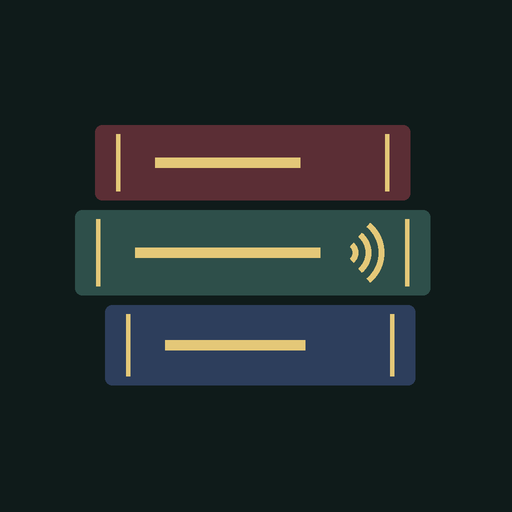
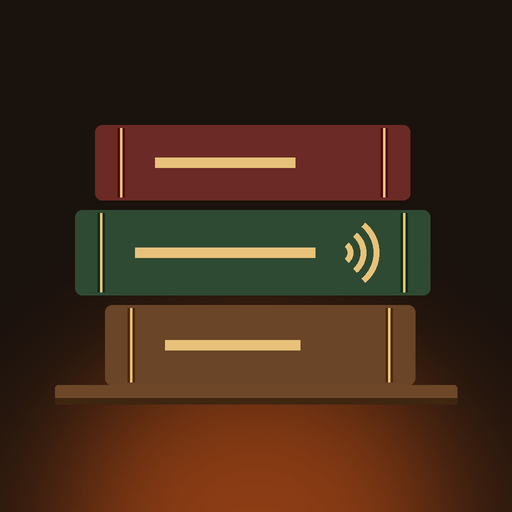
Add files via upload

diff --git a/index.html b/index.html
@@ -4,8 +4,8 @@
 <meta charset="utf-8">
 <meta name="viewport" content="width=device-width, initial-scale=1, viewport-fit=cover">
 <title>Narrate</title>
-<meta name="theme-color" content="#0f1b1a" media="(prefers-color-scheme: dark)">
-<meta name="theme-color" content="#eceee9" media="(prefers-color-scheme: light)">
+<meta name="theme-color" content="#1a120d" media="(prefers-color-scheme: dark)">
+<meta name="theme-color" content="#f2e7d5" media="(prefers-color-scheme: light)">
 <link rel="manifest" href="manifest.webmanifest">
 <link rel="apple-touch-icon" href="icons/apple-touch-icon.png">
 <link rel="icon" type="image/png" href="icons/icon-192.png">
@@ -14,35 +14,49 @@
     --serif: "Iowan Old Style", "Palatino Linotype", Palatino, "Book Antiqua", Georgia, serif;
     --sans: system-ui, -apple-system, "Segoe UI", Roboto, "Helvetica Neue", sans-serif;
 
-    --bg: #eceee9;
-    --surface: #f7f8f4;
-    --surface-2: #e2e6e0;
-    --ink: #17201f;
-    --muted: #5b6662;
-    --line: #c9d0ca;
-    --gilt: #85661b;
-    --gilt-on-cloth: #e4c878;
-    --danger: #9c2f2f;
-    --focus: #2c6a64;
+    --bg: #f2e7d5;
+    --surface: #fbf4e8;
+    --surface-2: #ead9bf;
+    --ink: #2b1c12;
+    --muted: #7a6450;
+    --line: #dcc6a6;
+    --gilt: #9a6a1f;
+    --gilt-on-cloth: #e8c27a;
+    --ember: #b8521f;
+    --ember-ink: #fff6ea;
+    --glow: rgba(214, 112, 40, .20);
+    --glow-hot: rgba(240, 150, 60, .16);
+    --wood: #8a5a33;
+    --wood-dark: #5e3a1f;
+    --danger: #a33b2a;
+    --focus: #9a5a1f;
     color-scheme: light;
   }
   @media (prefers-color-scheme: dark) {
     :root:not([data-theme="light"]) {
-      --bg: #0f1b1a;
-      --surface: #162524;
-      --surface-2: #1d2f2d;
-      --ink: #e5ebe6;
-      --muted: #93a29d;
-      --line: #2a3c3a;
-      --gilt: #d3b263;
-      --danger: #e07a6e;
-      --focus: #8ccfc7;
+      --bg: #1a120d;
+      --surface: #251a13;
+      --surface-2: #2f2118;
+      --ink: #f1e4cc;
+      --muted: #b19a80;
+      --line: #3d2c20;
+      --gilt: #e9b45f;
+      --ember: #e0793a;
+      --ember-ink: #1f120a;
+      --glow: rgba(232, 112, 40, .40);
+      --glow-hot: rgba(255, 160, 60, .30);
+      --wood: #5c3b22;
+      --wood-dark: #36220f;
+      --danger: #ef8a72;
+      --focus: #f0b46a;
       color-scheme: dark;
     }
   }
   :root[data-theme="dark"] {
-    --bg: #0f1b1a; --surface: #162524; --surface-2: #1d2f2d; --ink: #e5ebe6; --muted: #93a29d;
-    --line: #2a3c3a; --gilt: #d3b263; --danger: #e07a6e; --focus: #8ccfc7; color-scheme: dark;
+    --bg: #1a120d; --surface: #251a13; --surface-2: #2f2118; --ink: #f1e4cc; --muted: #b19a80;
+    --line: #3d2c20; --gilt: #e9b45f; --ember: #e0793a; --ember-ink: #1f120a; --glow: rgba(232, 112, 40, .40);
+    --glow-hot: rgba(255, 160, 60, .30); --wood: #5c3b22; --wood-dark: #36220f; --danger: #ef8a72; --focus: #f0b46a;
+    color-scheme: dark;
   }
 
   * { box-sizing: border-box; }
@@ -60,6 +74,35 @@
   :focus-visible { outline: 2px solid var(--focus); outline-offset: 2px; border-radius: 6px; }
   [hidden] { display: none !important; }
 
+  body::before, body::after {
+    content: ""; position: fixed; left: -10%; right: -10%; bottom: -12vh; height: 70vh;
+    pointer-events: none; z-index: 0;
+  }
+  body::before {
+    background:
+      radial-gradient(ellipse 60% 60% at 50% 100%, var(--glow), transparent 70%),
+      radial-gradient(ellipse 95% 85% at 50% 100%, var(--glow), transparent 78%);
+    opacity: .55; transition: opacity 1.6s ease;
+  }
+  body::after {
+    background:
+      radial-gradient(ellipse 40% 50% at 42% 100%, var(--glow-hot), transparent 72%),
+      radial-gradient(ellipse 34% 44% at 60% 100%, var(--glow-hot), transparent 72%);
+    opacity: 0; transition: opacity 1.6s ease;
+  }
+  .playing body::before { opacity: 1; animation: flicker 4.3s infinite; }
+  .playing body::after { opacity: 1; animation: flicker-hot 2.9s infinite; }
+  @keyframes flicker {
+    0%, 100% { opacity: .92; } 11% { opacity: .78; } 23% { opacity: 1; } 37% { opacity: .84; }
+    52% { opacity: .97; } 64% { opacity: .8; } 78% { opacity: 1; } 89% { opacity: .86; }
+  }
+  @keyframes flicker-hot {
+    0%, 100% { opacity: .7; transform: scaleY(1); } 17% { opacity: 1; transform: scaleY(1.06); }
+    33% { opacity: .55; transform: scaleY(.97); } 48% { opacity: .9; transform: scaleY(1.03); }
+    61% { opacity: .6; transform: scaleY(.98); } 79% { opacity: 1; transform: scaleY(1.05); }
+  }
+  .wrap { position: relative; z-index: 1; }
+
   .wrap { max-width: 600px; margin: 0 auto; padding: 0 16px; }
 
   /* ---------- buttons ---------- */
@@ -69,7 +112,7 @@
     border: 1px solid var(--line); background: var(--surface); color: var(--ink);
     font-weight: 600; font-size: 15px;
   }
-  .btn.primary { background: var(--ink); color: var(--bg); border-color: var(--ink); }
+  .btn.primary { background: var(--ember); color: var(--ember-ink); border-color: var(--ember); }
   .btn.quiet { background: transparent; border-color: transparent; color: var(--muted); padding: 0 10px; }
   .btn.danger { color: var(--danger); }
   .btn:disabled { opacity: .45; cursor: default; }
@@ -88,17 +131,28 @@
   .shelf-note { color: var(--muted); font-size: 14px; margin: 4px 0 22px; }
 
   /* Books lie in a stack, spine out. Width varies a little per book so the stack looks real. */
-  .stack { list-style: none; margin: 0; padding: 0 0 40px; display: flex; flex-direction: column; gap: 5px; }
+  .stack { list-style: none; margin: 0 0 40px; padding: 0 6px; display: flex; flex-direction: column; gap: 4px; position: relative; }
+  .stack:not(:empty)::after {
+    content: ""; display: block; height: 16px; margin: 2px -6px 0; border-radius: 2px;
+    background:
+      repeating-linear-gradient(90deg, rgba(0,0,0,.10) 0 2px, transparent 2px 23px, rgba(255,255,255,.05) 23px 24px, transparent 24px 61px),
+      linear-gradient(180deg, color-mix(in srgb, var(--wood) 85%, #fff 15%), var(--wood) 35%, var(--wood-dark));
+    box-shadow: 0 10px 18px -6px rgba(0,0,0,.55), inset 0 1px 0 rgba(255,255,255,.12);
+  }
   .spine {
     position: relative; display: block; width: var(--w, 100%); margin-left: var(--x, 0);
     min-height: 74px; padding: 13px 18px 16px;
-    border: 0; border-radius: 3px 5px 5px 3px; text-align: left;
+    border: 0; border-radius: 4px 7px 7px 4px; text-align: left;
     background:
-      linear-gradient(90deg, rgba(255,255,255,.07), transparent 9%, transparent 91%, rgba(0,0,0,.18)),
-      repeating-linear-gradient(0deg, rgba(255,255,255,.025) 0 1px, transparent 1px 3px),
-      var(--cloth, #2e4f4a);
+      linear-gradient(180deg, rgba(255,255,255,.10), transparent 30%, transparent 70%, rgba(0,0,0,.28)),
+      linear-gradient(90deg, rgba(0,0,0,.28), transparent 4%,
+        transparent 9%, rgba(0,0,0,.30) 9.4%, rgba(255,255,255,.10) 10%, transparent 10.8%,
+        transparent 89.2%, rgba(255,255,255,.10) 90%, rgba(0,0,0,.30) 90.6%, transparent 91%,
+        transparent 96%, rgba(0,0,0,.28)),
+      radial-gradient(circle at 20% 30%, rgba(255,255,255,.05), transparent 40%),
+      var(--cloth, #6b2a26);
     color: var(--gilt-on-cloth);
-    box-shadow: inset 0 0 0 1px rgba(0,0,0,.25), 0 1px 0 rgba(0,0,0,.3);
+    box-shadow: inset 0 0 0 1px rgba(0,0,0,.35), 0 2px 3px rgba(0,0,0,.35);
   }
   .spine::before, .spine::after {
     content: ""; position: absolute; left: 18px; right: 18px; height: 1px;
@@ -106,13 +160,15 @@
   }
   .spine::before { top: 6px; }
   .spine::after { bottom: 6px; }
-  .spine-title { display: block; font: 600 19px/1.2 var(--serif); letter-spacing: .02em; overflow-wrap: anywhere; }
-  .spine-meta { display: block; margin-top: 4px; font-size: 13px; opacity: .8; color: #efe4c4; }
+  .spine-title { display: block; font: 600 19px/1.2 var(--serif); letter-spacing: .02em; overflow-wrap: anywhere; padding: 0 12% 0 12%; text-shadow: 0 1px 0 rgba(0,0,0,.45); }
+  .spine-meta { display: block; margin-top: 4px; font: italic 14px/1.3 var(--serif); opacity: .85; color: #f3e3c3; padding: 0 12% 0 12%; }
   .spine-bar { position: absolute; left: 0; bottom: 0; height: 3px; background: var(--gilt-on-cloth); opacity: .8; border-radius: 0 2px 0 0; }
 
-  .empty {
-    border: 1px dashed var(--line); border-radius: 10px; padding: 28px 22px; text-align: center; color: var(--muted);
-  }
+  .empty { padding: 18px 22px 28px; text-align: center; color: var(--muted); }
+  .hearth { width: 92px; height: 92px; margin: 0 auto 6px; display: block; overflow: visible; }
+  .hearth .f1 { transform-origin: 50% 100%; animation: lick 2.1s ease-in-out infinite; }
+  .hearth .f2 { transform-origin: 50% 100%; animation: lick 1.6s ease-in-out infinite reverse; }
+  @keyframes lick { 0%, 100% { transform: scale(1, 1) skewX(0); } 30% { transform: scale(.96, 1.06) skewX(-3deg); } 65% { transform: scale(1.03, .95) skewX(2deg); } }
   .empty p { margin: 0 0 16px; }
   .empty .lead { font: 500 20px/1.35 var(--serif); color: var(--ink); margin-bottom: 8px; }
 
@@ -173,33 +229,38 @@
     flex: 1; display: flex; flex-direction: column; justify-content: center;
     padding: 26px 2px; min-height: 220px;
   }
-  .passage-chapter { color: var(--gilt); font: italic 16px/1.3 var(--serif); margin: 0 0 12px; }
+  .passage-chapter { color: var(--gilt); font: italic 17px/1.3 var(--serif); margin: 0 0 14px; }
   .passage-text {
-    font: 400 23px/1.55 var(--serif); margin: 0; max-width: 34em; white-space: pre-line;
+    font: 400 23px/1.6 var(--serif); margin: 0; max-width: 34em; white-space: pre-line;
+    text-wrap: pretty; hanging-punctuation: first;
     display: -webkit-box; -webkit-line-clamp: 8; -webkit-box-orient: vertical; overflow: hidden;
   }
   .passage-text.placeholder { color: var(--muted); font-size: 19px; }
 
-  .controls { padding: 8px 0 18px; position: sticky; bottom: 0; background: var(--bg); }
+  .controls { padding: 8px 0 18px; }
   .scrub { width: 100%; margin: 0; accent-color: var(--gilt); height: 28px; }
   .times { display: flex; justify-content: space-between; font-size: 13px; color: var(--muted); font-variant-numeric: tabular-nums; margin-top: 2px; }
   .transport { display: flex; justify-content: center; align-items: center; gap: 22px; margin: 10px 0 14px; }
   .play {
-    width: 74px; height: 74px; border-radius: 50%; border: 0; background: var(--ink); color: var(--bg);
+    width: 76px; height: 76px; border-radius: 50%; border: 0; background: var(--ember); color: var(--ember-ink);
     display: grid; place-items: center;
+    box-shadow: 0 6px 18px -6px rgba(0,0,0,.5);
+    transition: box-shadow 1.2s ease;
   }
+  .playing .play { box-shadow: 0 0 34px 2px var(--glow), 0 6px 18px -6px rgba(0,0,0,.5); }
   .play svg { width: 32px; height: 32px; }
   .skip { position: relative; }
   .skip span { position: absolute; inset: 0; display: grid; place-items: center; font-size: 10px; font-weight: 700; padding-top: 2px; }
   .tools { display: flex; justify-content: space-between; gap: 6px; }
   .tool {
-    flex: 1; min-height: 44px; border: 1px solid var(--line); border-radius: 22px; background: var(--surface);
+    flex: 1; min-height: 44px; border: 1px solid var(--line); border-radius: 22px;
+    background: color-mix(in srgb, var(--surface) 80%, transparent);
     font-size: 14px; font-weight: 600; font-variant-numeric: tabular-nums;
   }
   .tool[aria-pressed="true"] { border-color: var(--gilt); color: var(--gilt); }
 
   .menu {
-    position: fixed; inset: 0; background: rgba(0,0,0,.45); display: flex; align-items: flex-end; z-index: 10;
+    position: fixed; inset: 0; background: rgba(20,10,4,.55); display: flex; align-items: flex-end; z-index: 10;
   }
   .menu-panel {
     width: 100%; max-width: 600px; margin: 0 auto; background: var(--surface); border-radius: 16px 16px 0 0;
@@ -227,7 +288,9 @@
     .passage-text { font-size: 26px; }
   }
   @media (prefers-reduced-motion: reduce) {
-    * { transition: none !important; }
+    *, *::before, *::after { transition: none !important; animation: none !important; }
+    body::before, body::after { opacity: .55 !important; }
+    .playing body::before { opacity: .9 !important; }
   }
 </style>
 </head>
@@ -246,8 +309,15 @@
   <p class="shelf-note" id="shelf-note"></p>
   <ul class="stack" id="stack"></ul>
   <div class="empty" id="empty" hidden>
+    <svg class="hearth" viewBox="0 0 100 100" aria-hidden="true">
+      <ellipse cx="50" cy="94" rx="40" ry="6" fill="var(--glow)"/>
+      <path class="f1" d="M50 18c6 14 22 24 22 46a22 22 0 0 1-44 0c0-12 7-18 10-28 3 7 6 10 9 11-1-12 0-20 3-29z" fill="var(--ember)"/>
+      <path class="f2" d="M50 46c4 8 12 13 12 24a12 12 0 0 1-24 0c0-7 4-10 6-15 2 4 4 5 5 6 0-6 0-10 1-15z" fill="var(--gilt)"/>
+      <rect x="22" y="84" width="56" height="8" rx="4" fill="var(--wood)" transform="rotate(-8 50 88)"/>
+      <rect x="22" y="84" width="56" height="8" rx="4" fill="var(--wood-dark)" transform="rotate(8 50 88)"/>
+    </svg>
     <p class="lead">Your shelf is empty.</p>
-    <p>Paste text or import an EPUB, PDF or text file, and it becomes an audiobook you can play with the screen off.</p>
+    <p>Bring a book to the fire. Paste text or import an EPUB, PDF or text file, and it becomes an audiobook you can listen to with the screen off.</p>
     <button class="btn primary" type="button" data-action="add">Add a book</button>
   </div>
   <footer class="footer">

diff --git a/app.js b/app.js
@@ -24,7 +24,8 @@ const VOICES = [
 ];
 const voiceName = (id) => (VOICES.find((v) => v[0] === id) || [id, id])[1];
 
-const CLOTHS = ['#2e4f4a', '#5b2e35', '#2d3e5c', '#4a5530', '#5a4632', '#40324f', '#24453f', '#6a3a2a'];
+// Leather bindings: oxblood, forest, tobacco, midnight, plum, saddle, bottle green, burgundy.
+const CLOTHS = ['#6b2a26', '#2f4a33', '#6a4528', '#27324a', '#4e2d40', '#7a4a2a', '#23413a', '#5a2131'];
 const SPEEDS = [0.8, 0.9, 1, 1.1, 1.2, 1.35, 1.5, 1.75, 2];
 const SKIP_TITLES = /^(contents|table of contents|copyright|index|dedication|title page|also by|other books|about the author|about the publisher|cover|half title|praise for|newsletter)/i;
 
@@ -165,7 +166,7 @@ function renderLibrary() {
     stack.append(el('li', {},
       el('button', {
         class: 'spine', type: 'button',
-        style: `--cloth:${book.cloth || CLOTHS[h % CLOTHS.length]};--w:${width}%;--x:${offset}%`,
+        style: `--cloth:${CLOTHS[h % CLOTHS.length]};--w:${width}%;--x:${offset}%`,
         onclick: () => openBook(book.id),
       },
       el('span', { class: 'spine-title' }, book.title),
@@ -696,8 +697,9 @@ function renderPlayer() {
 
 function updatePlayIcon() {
   const playing = !audio.paused;
-  $('icon-play').hidden = playing;
-  $('icon-pause').hidden = !playing;
+  // SVG elements have no .hidden property, so toggle the attribute itself.
+  $('icon-play').toggleAttribute('hidden', playing);
+  $('icon-pause').toggleAttribute('hidden', !playing);
   $('play').setAttribute('aria-label', playing ? 'Pause' : 'Play');
 }
 
@@ -1084,8 +1086,9 @@ function wire() {
   });
   audio.addEventListener('canplay', applyPendingSeek);
   audio.addEventListener('playing', () => { applyPendingSeek(); updatePositionState(true); });
-  audio.addEventListener('play', () => { updatePlayIcon(); if ('mediaSession' in navigator) navigator.mediaSession.playbackState = 'playing'; });
+  audio.addEventListener('play', () => { document.documentElement.classList.add('playing'); updatePlayIcon(); if ('mediaSession' in navigator) navigator.mediaSession.playbackState = 'playing'; });
   audio.addEventListener('pause', () => {
+    document.documentElement.classList.remove('playing');
     updatePlayIcon();
     savePosition(true);
     if ('mediaSession' in navigator) navigator.mediaSession.playbackState = 'paused';
